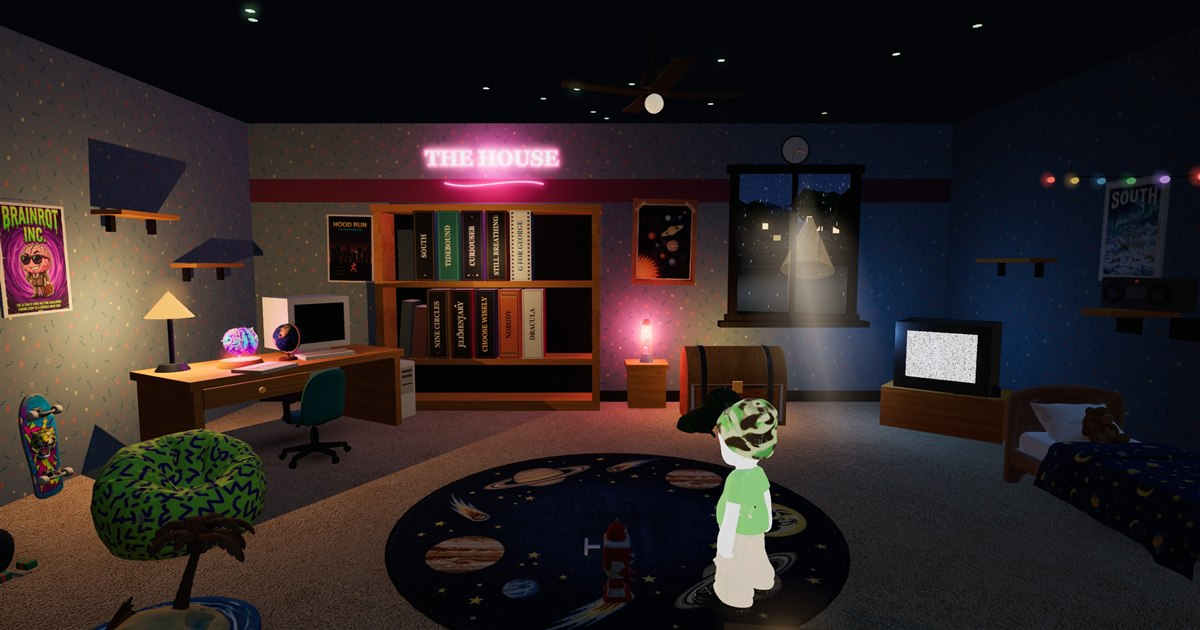
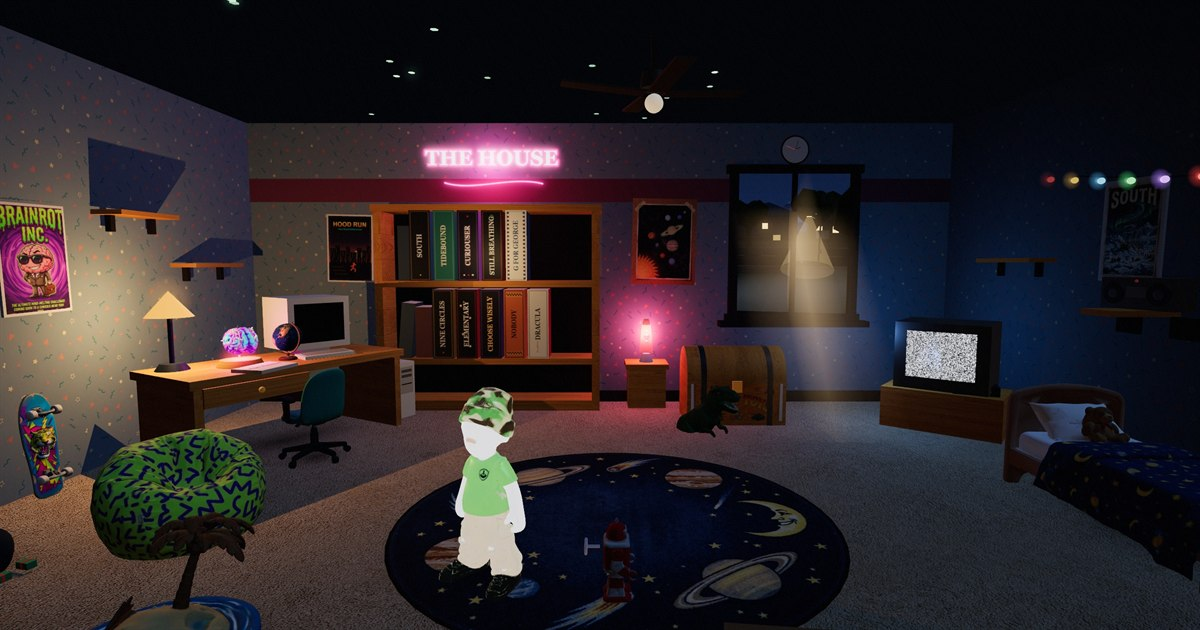
The card and the hero, re-shot
Both were taken before the staircase moved and before the texture pass,
so they were showing the house as it was two days ago — including the
toy chest's painted front, which was 35% stretched in those frames and
is re-cut now.

Re-shot through the full post chain at the pinned hour, supersampled
from 2400 wide. What is visibly different: the BRAINROT and SOUTH
posters are vivid instead of washed out (they were the untagged colour
maps), the wallpaper holds one pitch across the wall behind the shelf
rather than changing scale at every panel, and the chest panel is at
its true proportions.

The kid also moved: he stood squarely in front of the toy chest in the
old frame, hiding the doorway into AGE OF TOYS. He is on the rug
left-of-centre now, which opens the chest and its T-rex and balances
the frame against the desk. His contact shadow moved with him — it is
tracked per-frame in tick, which does not run in a still, so it has to
be placed by hand or he floats.

diff --git a/sw.js b/sw.js
@@ -15,7 +15,7 @@
  * several a day — deleted 13 MB of props along with the code and every visitor
  * re-downloaded the entire house. The shell is bumped freely; the asset bucket is
  * bumped only when a prop is re-exported under a name it already had. */
-var SHELL_CACHE = "the-room-shell-v66"; // v66: one tile size per surface, everywhere
+var SHELL_CACHE = "the-room-shell-v67"; // v67: the card and hero re-shot after the texture pass
 var ASSET_CACHE = "the-room-assets-v1"; // bump ONLY when an existing asset changes
 var CACHE = SHELL_CACHE;                // kept: older code in this file reads it
 var SHELL = ["./", "./index.html", "./manifest.webmanifest", "./icon.svg",
